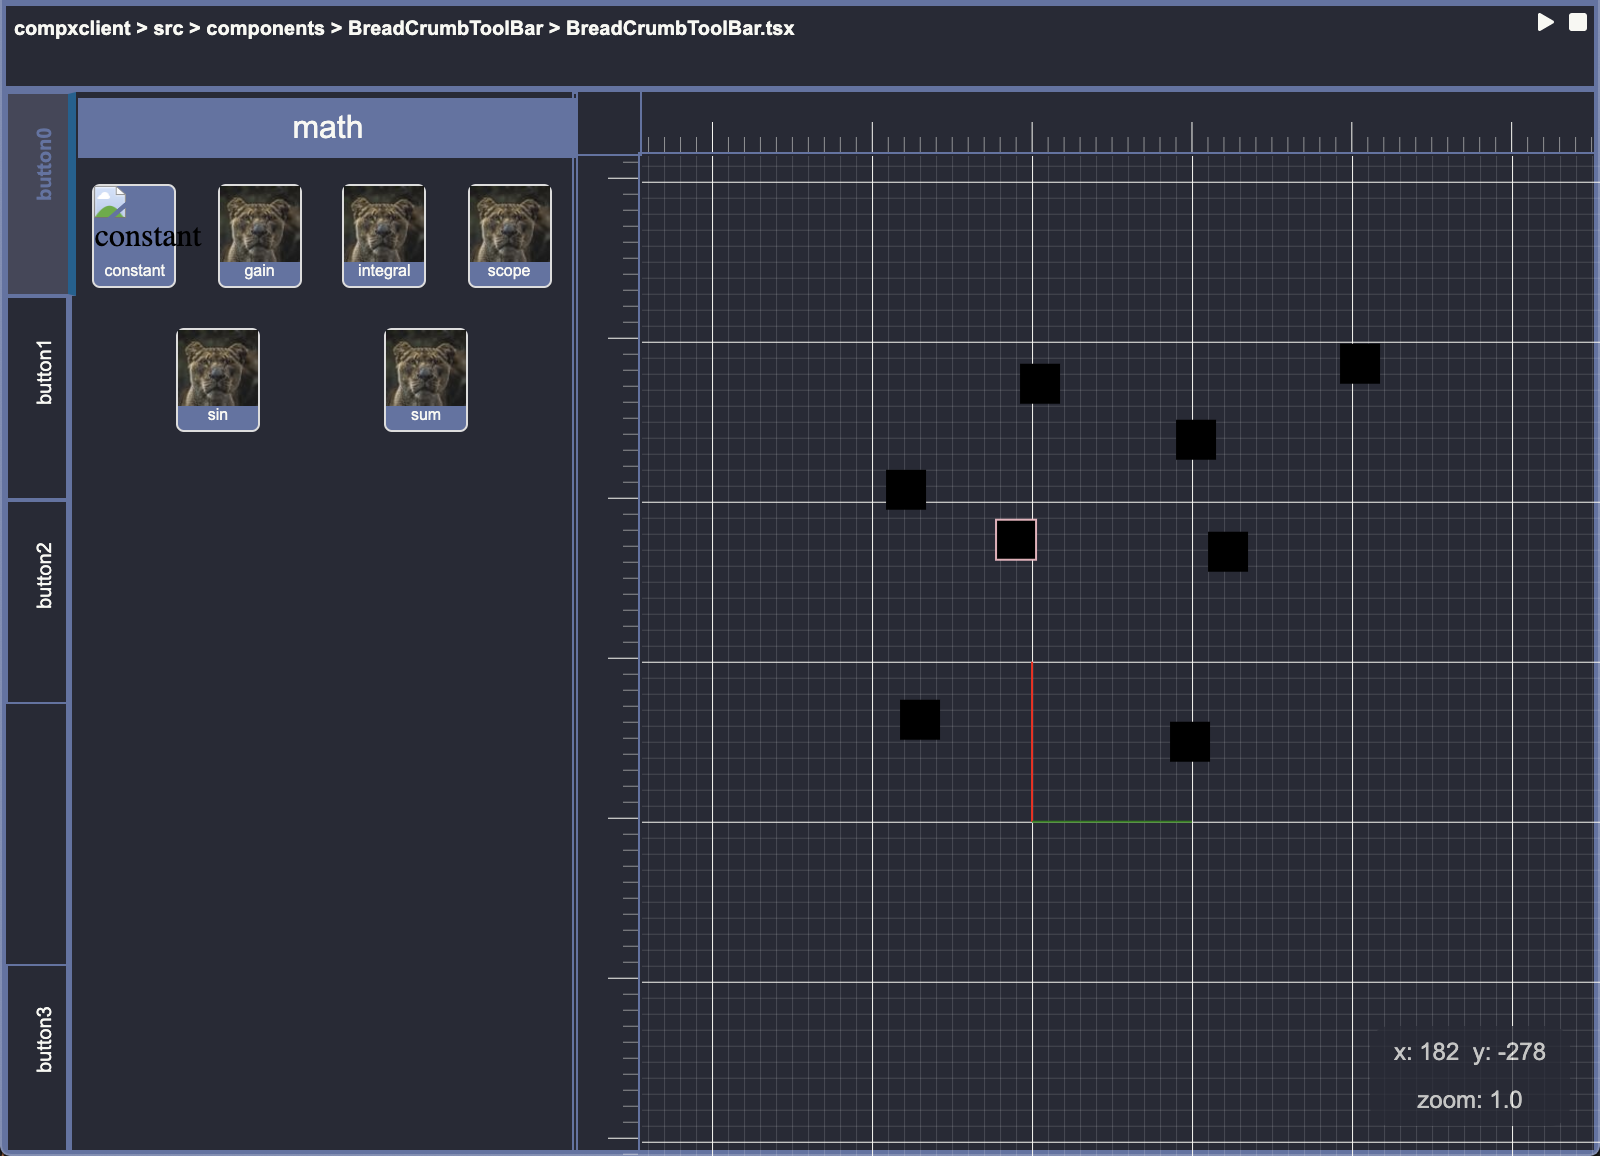
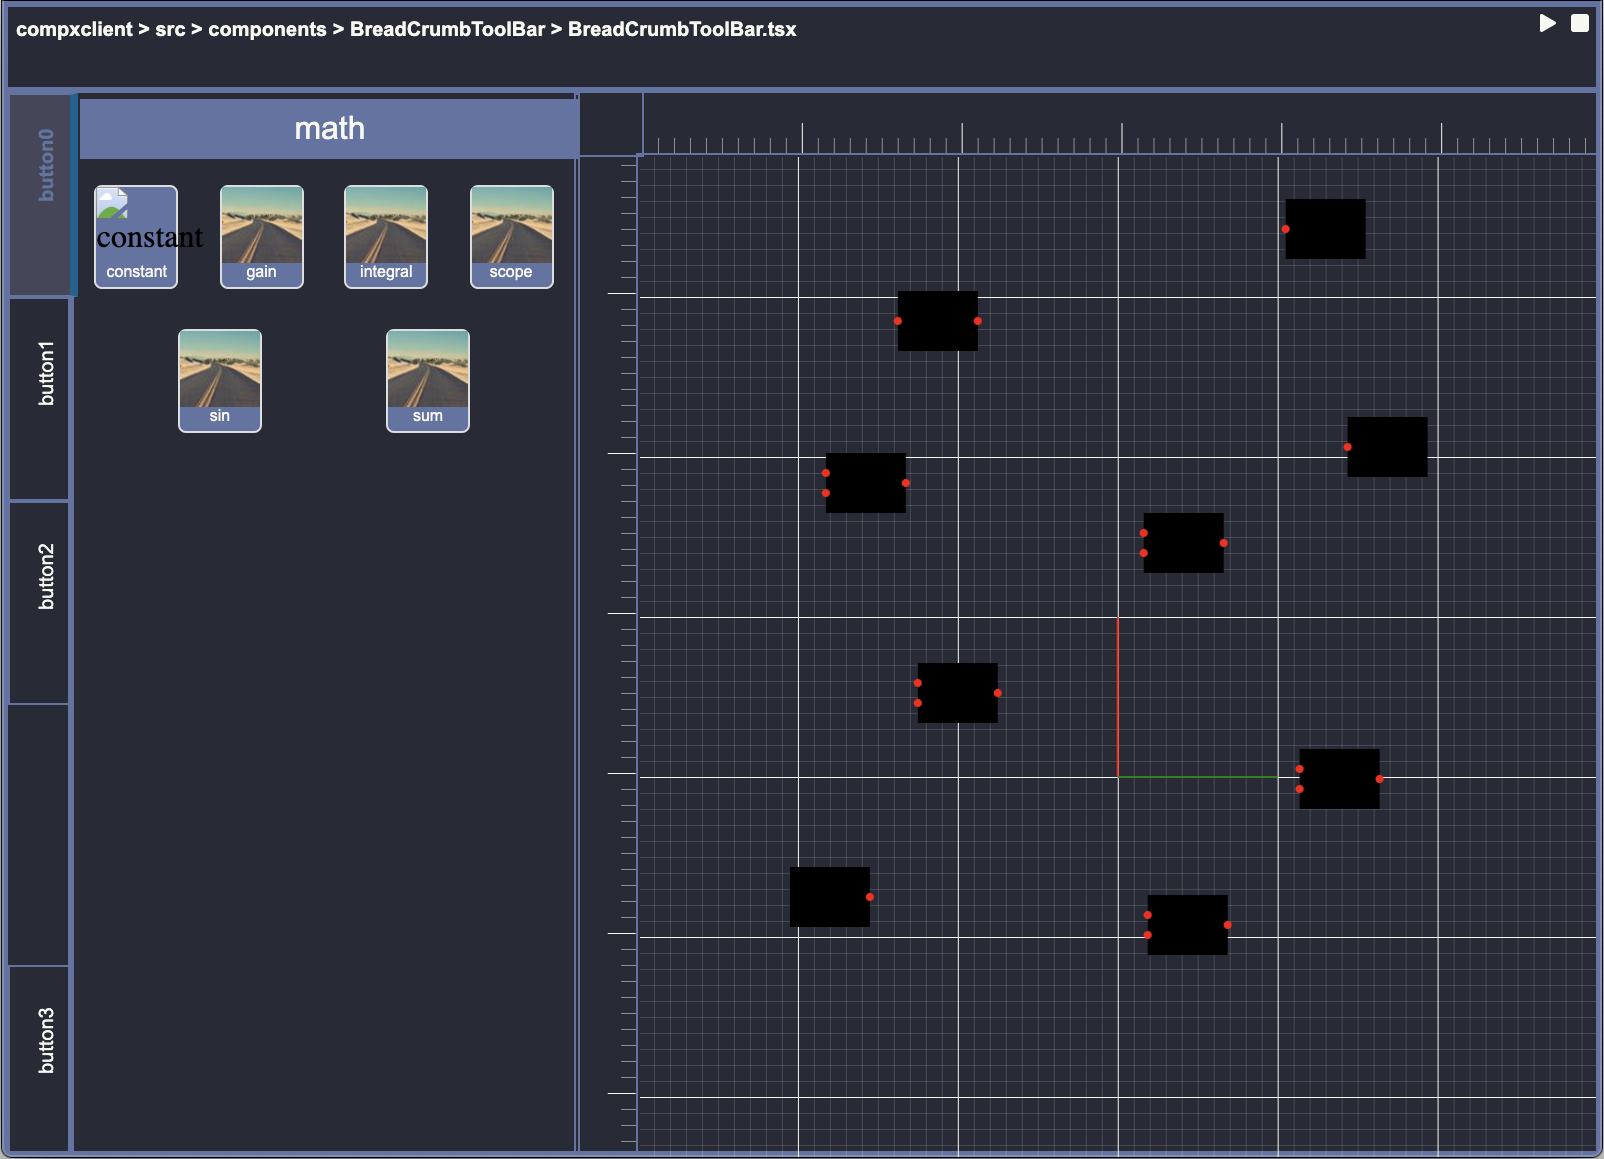
0.1.05
- Movable Blocks and grid

diff --git a/src/app/components/Canvas/Canvas.tsx b/src/app/components/Canvas/Canvas.tsx
@@ -33,13 +33,12 @@ interface DispatchProps {
 type Props = StateProps & DispatchProps
 
 type State = {
-    isMouseDown: boolean,
-    isDraggingCanvas: boolean,
+    mouseDownOnGrid: boolean,
+    mouseDownOnBlock: boolean,
     isDraggingBlockFromBrowser: boolean,
     mouseWorldCoordinates: PointType,
     zoomLevel: number,
-    selectedID?: string,
-    selectedFlag: boolean
+    selectedID?: string
 };
 
 //TODO: Fix ruler componet
@@ -54,13 +53,12 @@ class Canvas extends React.Component<Props, State> {
         this.gridRef = React.createRef()
 
         this.state = {
-            isMouseDown: false,
-            isDraggingCanvas: false,
+            mouseDownOnGrid: false,
+            mouseDownOnBlock: false,
             isDraggingBlockFromBrowser: false,
             mouseWorldCoordinates: {x: null, y: null},
             zoomLevel: 1,
-            selectedID: undefined,
-            selectedFlag: false
+            selectedID: undefined
         }
     }
 
@@ -96,42 +94,59 @@ class Canvas extends React.Component<Props, State> {
         e.stopPropagation();
     };
 
-    onMouseDown = (e: React.MouseEvent) => {
+    onMouseDownHandlerGrid = (e: React.MouseEvent) => {
         const tempState = {...this.state};
-        tempState.isMouseDown = true;
-        tempState.isDraggingCanvas = true;
+        tempState.mouseDownOnGrid = true;
         tempState.mouseWorldCoordinates =
             this.screenToWorld({x: e.nativeEvent.offsetX, y: e.nativeEvent.offsetY});
-        tempState.selectedFlag = true;
         this.setState(tempState);
         e.stopPropagation();
         e.preventDefault();
     };
 
-    onMouseMove = (e: React.MouseEvent) => {
-        if (this.state.isMouseDown && this.state.isDraggingCanvas) {
-            const tempProps = {...this.props};
-            tempProps.canvasTranslation = {x: tempProps.canvasTranslation.x + e.movementX,
-                y: tempProps.canvasTranslation.y + e.movementY}
-            this.props.onTranslate(tempProps.canvasTranslation)
-            const tempState = {...this.state};
-            tempState.selectedFlag = false;
-            this.setState(tempState);
-        }
-
+    onMouseUpHandlerGrid = (e: React.MouseEvent) => {
+        const tempState = {...this.state};
+        tempState.mouseDownOnGrid = false;
+        this.setState(tempState);
         e.stopPropagation()
         e.preventDefault()
     };
 
-    onMouseUp = (e: React.MouseEvent) => {
+    onMouseDownHandlerBlock = (e: React.MouseEvent, blockID: string): void => {
         const tempState = {...this.state};
-        tempState.isMouseDown = false;
-        tempState.isDraggingCanvas;
-        if (tempState.selectedFlag) {
-            tempState.selectedID = undefined
-            tempState.selectedFlag = false;
-        }
+        tempState.mouseWorldCoordinates =
+            this.screenToWorld({x: e.nativeEvent.offsetX, y: e.nativeEvent.offsetY});
+        tempState.mouseDownOnBlock = true;
+        tempState.selectedID = blockID;
         this.setState(tempState);
+    };
+
+    onMouseUpHandlerBlock = (e: React.MouseEvent): void => {
+        const tempState = {...this.state};
+        tempState.mouseDownOnBlock = false;
+        this.setState(tempState);
+    };
+
+    onMouseMove = (e: React.MouseEvent) => {
+        if (this.state.mouseDownOnGrid) {
+            const tempProps = {...this.props};
+            tempProps.canvasTranslation = {x: tempProps.canvasTranslation.x + e.movementX,
+                y: tempProps.canvasTranslation.y + e.movementY}
+            this.props.onTranslate(tempProps.canvasTranslation)
+        } else if ( this.state.mouseDownOnBlock) {
+            const tempProps = {...this.props};
+            const tempState = {...this.state};
+            tempState.mouseWorldCoordinates =
+                this.screenToWorld({x: e.nativeEvent.offsetX, y: e.nativeEvent.offsetY});
+            this.setState(tempState);
+            const tempBlockIndex = tempProps.graph.blocks.indexOf(tempProps.graph.blocks
+                .find(block => block.id === this.state.selectedID));
+            tempProps.graph.blocks[tempBlockIndex].position =
+                {x: tempProps.graph.blocks[tempBlockIndex].position.x + e.movementX,
+                    y: tempProps.graph.blocks[tempBlockIndex].position.y + e.movementY};
+            this.props.onUpdatedGraph(tempProps.graph);
+        }
+
         e.stopPropagation()
         e.preventDefault()
     };
@@ -153,11 +168,17 @@ class Canvas extends React.Component<Props, State> {
         // mouse up
     }
 
-    onBlockSelected = (block: BlockVisualType): void => {
+    onGridClickHandler = (e: React.MouseEvent): void => {
         const tempState = {...this.state};
-        console.log("clicked", tempState.selectedID, block.id);
-        if (block.id === tempState.selectedID) { tempState.selectedID = undefined; }
-        else { tempState.selectedID = block.id; }
+        tempState.selectedID = undefined;
+        this.setState(tempState);
+    }
+
+    onBlockClickHandler = (e: React.MouseEvent, blockID: string): void => {
+        // TODO: Get blocks to stay selected
+        const tempState = {...this.state};
+        if (blockID === tempState.selectedID) { tempState.selectedID = undefined; }
+        else { tempState.selectedID = blockID; }
         this.setState(tempState);
     }
 
@@ -184,7 +205,7 @@ class Canvas extends React.Component<Props, State> {
     }
 
     render() {
-        const cursor = (this.state.isMouseDown && this.state.isDraggingCanvas) ? "grabbing" : "grab";
+        const cursor = (this.state.mouseDownOnGrid) ? "grabbing" : "grab";
 
         return (
             <div style={{display: "flex", flexDirection: "column", width: "100%", height: "100%"}}>
@@ -204,20 +225,22 @@ class Canvas extends React.Component<Props, State> {
                         <Ruler id={1} ref={ref(this, "rulerLeft")} minorTickSpacing={8} majorTickSpacing={80}
                                type="vertical" zoom={this.props.canvasZoom} translate={this.props.canvasTranslation}/>
                     </div>
-                    <div style={{height: "100%", cursor: cursor, flex: 1,
+                    <div style={{height: "100%", width: "100%", cursor: cursor, position: "relative", zIndex: 0,
                         borderLeft: "calc(var(--border-width)/2) solid var(--custom-accent-color)",
-                        borderTop: "calc(var(--border-width)/2) solid var(--custom-accent-color)"}}
+                        borderTop: "calc(var(--border-width)/2) solid var(--custom-accent-color)", pointerEvents: "none"}}
                          onWheel={this.handleScroll}
-                         onMouseDown={this.onMouseDown}
-                         onMouseMove={this.onMouseMove} onMouseUp={this.onMouseUp} ref={this.gridRef}
+                         onMouseMove={this.onMouseMove} ref={this.gridRef}
                          onDragEnter={this.onDragEnterHandler} onDragOver={this.onDragOverHandler}
                          onDragLeave={this.onDragLeaveHandler} onDrop={this.onDropHandler}>
                         <Grid minorTickSpacing={8} majorTickSpacing={80} zoom={this.props.canvasZoom}
-                              translate={this.props.canvasTranslation}/>
+                              translate={this.props.canvasTranslation} onMouseDown={this.onMouseDownHandlerGrid}
+                              onMouseUp={this.onMouseUpHandlerGrid} onClick={this.onGridClickHandler}/>
                         <BlockLayer graph={this.props.graph} translate={this.props.canvasTranslation}
                                     zoom={this.props.canvasZoom} selectedID={this.state.selectedID}
-                                    onBlockSelected={this.onBlockSelected}/>
-                        <MouseCoordinatePosition isDragging={this.state.isMouseDown}
+                                    onBlockClickHandler={this.onBlockClickHandler}
+                                    onMouseDownHandlerBlock={this.onMouseDownHandlerBlock}
+                                    onMouseUpHandlerBlock={this.onMouseUpHandlerBlock}/>
+                        <MouseCoordinatePosition isDragging={this.state.mouseDownOnGrid || this.state.mouseDownOnBlock}
                                                  mousePosition={this.state.mouseWorldCoordinates}
                                                  zoomLevel={this.state.zoomLevel}/>
                     </div>

diff --git a/src/app/components/Canvas/BlockLayer/Block Layer.tsx b/src/app/components/Canvas/BlockLayer/Block Layer.tsx
@@ -10,7 +10,9 @@ type Props = {
     translate: PointType,
     zoom: number,
     selectedID?: string,
-    onBlockSelected: (block: BlockVisualType)=>void
+    onBlockClickHandler: (e: React.MouseEvent, blockID: string)=>void
+    onMouseDownHandlerBlock: (e: React.MouseEvent, blockID: string)=>void
+    onMouseUpHandlerBlock: (e: React.MouseEvent)=>void
 };
 
 type State = never;
@@ -20,14 +22,16 @@ export class BlockLayer extends React.Component<Props, State> {
 
     render(): React.ReactNode {
         return (
-            <div style={{width: "100%", height: "100%", position: "absolute", zIndex: 2}}>
+            <div style={{width: "100%", height: "100%", position: "absolute", zIndex: 2, pointerEvents: "none"}}>
                 <svg width="100%" height="100%" xmlns="http://www.w3.org/2000/svg">
                     {this.props.graph.blocks.map((block) => {
                         const selected = this.props.selectedID !== undefined && this.props.selectedID === block.id;
                         return (
                             <VisualBlockComponent key={block.id} translate={this.props.translate} zoom={this.props.zoom}
                                                   selected={selected} block={block}
-                                                  onBlockSelected={this.props.onBlockSelected}/>
+                                                  onClick={this.props.onBlockClickHandler}
+                                                  onMouseDown={this.props.onMouseDownHandlerBlock}
+                                                  onMouseUp={this.props.onMouseUpHandlerBlock}/>
                         )
                     })}
                 </svg>

diff --git a/src/app/components/Canvas/BlockLayer/VisualBlockComponent.tsx b/src/app/components/Canvas/BlockLayer/VisualBlockComponent.tsx
@@ -8,7 +8,9 @@ type Props = {
     zoom: number,
     selected: boolean,
     block: BlockVisualType,
-    onBlockSelected: (block: BlockVisualType)=>void
+    onClick: (e: React.MouseEvent, blockID: string)=>void,
+    onMouseDown: (e: React.MouseEvent, blockID: string)=>void
+    onMouseUp: (e: React.MouseEvent)=>void
 };
 
 type State = never;
@@ -28,13 +30,16 @@ export class VisualBlockComponent extends React.Component<Props, State> {
         });
 
         return (
-            <g transform={`translate(${this.props.translate.x} ${this.props.translate.y})
-                                scale(${this.props.zoom.toString()} ${this.props.zoom.toString()})`}>
+            <g style={{pointerEvents: "auto"}}
+               transform={`translate(${this.props.translate.x} ${this.props.translate.y})
+                                scale(${this.props.zoom.toString()} ${this.props.zoom.toString()})`}
+               onMouseDown={(e)=>this.props.onMouseDown(e, this.props.block.id)}
+               onMouseUp={this.props.onMouseUp}>
                 <rect x={this.props.block.position.x} y={this.props.block.position.y}
                       width={this.props.block.size.x} height={this.props.block.size.y}
                       style={{cursor: "pointer", stroke: this.props.selected?"pink":"",
                           strokeWidth: this.props.selected?"1":"0", strokeOpacity: this.props.selected?0.9:0.0}}
-                      onClick={() => this.props.onBlockSelected(this.props.block)}/>
+                      onClick={(e) => this.props.onClick(e, this.props.block.id)}/>
                 {inputPortComponents}
                 {outputPortComponents}
             </g>

diff --git a/src/app/components/Canvas/Grid.tsx b/src/app/components/Canvas/Grid.tsx
@@ -2,23 +2,29 @@
 import * as React from 'react';
 import {linearInterp} from "../../../helpers/utils";
 import {PointType} from "../types";
+import {BlockVisualType} from "../../../types";
 
 type Props = {
     majorTickSpacing: number
     minorTickSpacing: number
     translate: PointType
     zoom: number
+
+    onMouseDown: (e: React.MouseEvent)=>void,
+    onMouseUp: (e: React.MouseEvent)=>void,
+    onClick: (e: React.MouseEvent)=>void
 };
 
 export class Grid extends React.Component<Props, never> {
     render(): React.ReactElement {
         const opacity = linearInterp(this.props.zoom, 0, 100, 0.3, 0.75);
 
-        const smallGrid = `M ${this.props.minorTickSpacing} 0 L 0 0 0 ${this.props.minorTickSpacing}`
-        const grid = `M ${this.props.majorTickSpacing} 0 L 0 0 0 ${this.props.majorTickSpacing}`
+        const smallGrid = `M ${this.props.minorTickSpacing} 0 L 0 0 0 ${this.props.minorTickSpacing}`;
+        const grid = `M ${this.props.majorTickSpacing} 0 L 0 0 0 ${this.props.majorTickSpacing}`;
 
         return (
-            <div style={{width: "100%", height: "100%", position: "absolute", zIndex: 1}}>
+            <div style={{width: "100%", height: "100%", position: "absolute", zIndex: 1, pointerEvents: "auto"}}
+                 onMouseDown={this.props.onMouseDown} onMouseUp={this.props.onMouseUp} onClick={this.props.onClick}>
                 <svg width="100%" height="100%" xmlns="http://www.w3.org/2000/svg">
                     <defs>
                         <pattern id="smallGrid" width={this.props.minorTickSpacing} height={this.props.minorTickSpacing}

diff --git a/src/app/App.tsx b/src/app/App.tsx
@@ -10,6 +10,7 @@ import {ActiveSidebarDictionary, SplitSizeDictionaryType} from "./store/types";
 import Canvas from "./components/Canvas/Canvas";
 import BrowserWindow from "./components/BrowserWindow/BrowserWindow";
 import {setupIPCListeners, removeIPCListeners, getBlockUpdate} from "./helpers/ipcRenderFunctions";
+import {Terminal} from "./components/Terminal/Terminal";
 
 const pageWrapStyle: React.CSSProperties = {
   width: "calc(100vw - 2 * var(--border-width)",
@@ -107,7 +108,7 @@ class App extends Component<Props, never> {
                      firstElementMin="350px">
                 {{
                   element0: (functional),
-                  element1: (<div>Terminal</div>)
+                  element1: (<Terminal/>)
                 }}
               </Split>
             </div>

diff --git a/src/index.ts b/src/index.ts
@@ -1,4 +1,4 @@
-import {app, BrowserWindow, IpcMainEvent, ipcMain as ipc} from 'electron';
+import {app, BrowserWindow, IpcMainEvent, ipcMain as ipc, session} from 'electron';
 import installExtension, { REACT_DEVELOPER_TOOLS, REDUX_DEVTOOLS } from 'electron-devtools-installer';
 import isDev from 'electron-is-dev';
 const path = require('path')
@@ -29,6 +29,9 @@ const createWindow = (): void => {
 
     if (isDev) {
         app.whenReady().then(() => {
+            import('react-devtools-electron');
+            console.log("dirname", path.join(__dirname, 'react-devtools'));
+            //await session.defaultSession.loadExtension(path.join(__dirname, 'react-devtools'))
             mainWindow.webContents.openDevTools({mode: 'undocked'});
         });
     }

diff --git a/src/app/components/ComponentUtils/Split.tsx b/src/app/components/ComponentUtils/Split.tsx
@@ -163,7 +163,7 @@ class Split extends Component<Props, State> {
 
         const tempSize0 = (this.state !== null && this.state.element0Size !== null) ?
             this.state.element0Size.toString() + "px" : "50%";
-        const element0Style: CSS.Properties = this.props.direction === "column" ? {height: tempSize0} : {width: tempSize0, height: "100%"}
+        const element0Style: CSS.Properties = this.props.direction === "column" ? {height: tempSize0} : {width: tempSize0}
 
         const splitStyle: CSS.Properties = {flexDirection: this.props.direction};
 

diff --git a/src/app/components/Terminal/Terminal.tsx b/src/app/components/Terminal/Terminal.tsx
@@ -1,0 +1,17 @@
+// @flow
+import * as React from 'react';
+
+type Props = {
+
+};
+type State = {
+
+};
+
+export class Terminal extends React.Component<Props, State> {
+    render(): React.ReactNode {
+        return (
+            <div>Terminal</div>
+        );
+    };
+};

diff --git a/README.md b/README.md
@@ -4,7 +4,7 @@
 
 ---
 
-> A visual, simple and fast Python block language for computation and simulation.
+> A visual, simple and fast Typescript block language for computation and simulation.
 
 **Badges**
 
@@ -16,18 +16,11 @@
 
 ## Background
 
-&nbsp;&nbsp;&nbsp;&nbsp;The project utilizes a Typescript backend to handle the graph creation and execution which is
- marked by the Graph Library.  The Graph Library holds block components which can be altered to have an arbitrary number
-  of ports of various types and are connected to other blocks with edges.  The graph data structure includes useful
-  utilities to analyse and run the graph in the correct sorting order.
+&nbsp;&nbsp;&nbsp;&nbsp;The project utilizes a Typescript backend to handle graph creation and execution which is marked by the Graph Library.  The Graph Library holds block components which can be altered to have an arbitrary number of ports of various types which are connected to other blocks with edges.  The graph data structure includes useful utilities to analyse and run the graph in the correct sorting order.
 
-&nbsp;&nbsp;&nbsp;&nbsp;The Graph Builder then automates the creation of the blocks from JSON files located on disk to
-represent the addition of blocks to the canvas.  The Graph Builder also utilizes the javascript compiler to dynamically
-build and run the newly created graph.
+&nbsp;&nbsp;&nbsp;&nbsp;The Graph Builder then automates the creation of the blocks from JSON files located on disk to represent the addition of blocks to the canvas.  The Graph Builder also utilizes the javascript compiler to dynamically build and run the newly created graph.
 
-&nbsp;&nbsp;&nbsp;&nbsp;The CompX project aims to package for cross platform use with the help of 
-[Electron](https://www.electronjs.org).  Utilizing the power of electron, the frontend can be developed using familiar 
-Javascript and CSS while leveraging the agility of the React framework.
+&nbsp;&nbsp;&nbsp;&nbsp;The CompX project aims to package for cross platform use with the help of [Electron](https://www.electronjs.org).  Utilizing the power of electron, the frontend can be developed using familiar Javascript and CSS while leveraging the agility of the React framework.
 
 ---
 
